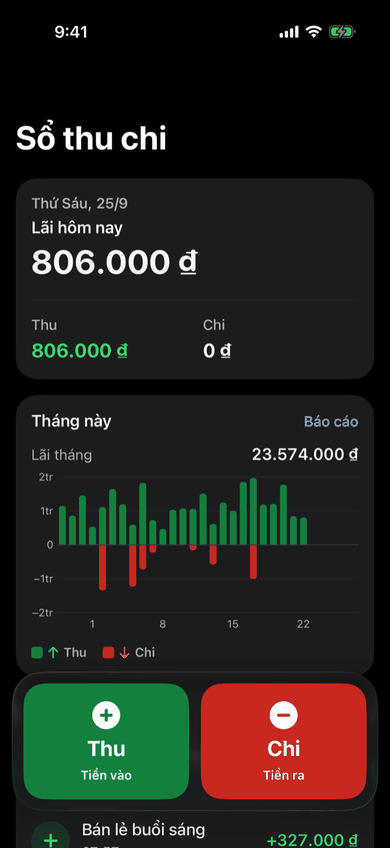
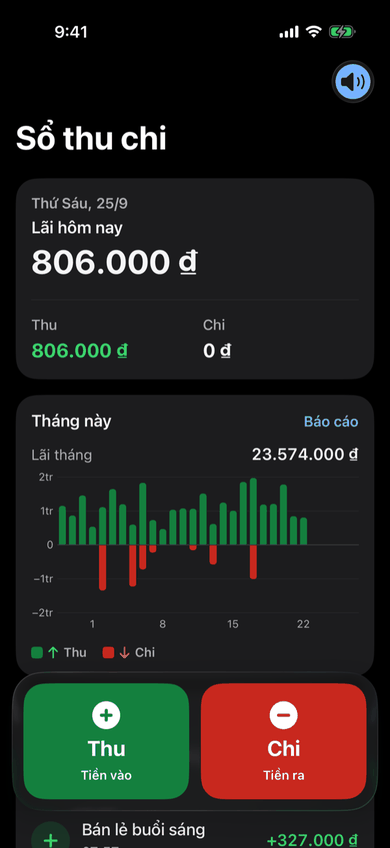
Ledger README: the home screenshots show the speaker button
Re-rendered on a71d4f5 by the "iOS previews" workflow and shrunk to
390 px with a 256-colour palette, like the other README shots: the
light, dark and large-text home screens now carry the readback toggle
in the toolbar. The light shot's alt text names it.

Claude-Session: https://claude.ai/code/session_017SqZFe7MJiZeRp26ra9wFc

Changed region(s): [[0.8308, 0.0613, 0.9538, 0.1226], [0.8615, 0.4906, 0.9231, 0.5212], [0.7692, 0.4906, 0.8308, 0.5212]]

diff --git a/ios/README.md b/ios/README.md
@@ -604,7 +604,7 @@ Chụp từ simulator iPhone 17 Pro (iOS 26.5, Xcode 26.6) bằng workflow **iOS
 
 | Trang chủ sổ | Nhập nhanh 10 giây | Báo cáo tháng/quý | Paywall |
 | --- | --- | --- | --- |
-| <img src="docs/screenshots/ledger-home.light.png" width="200" alt="Trang chủ sổ thu chi: lãi hôm nay, biểu đồ tháng, hai nút Thu và Chi"> | <img src="docs/screenshots/ledger-entry.light.png" width="200" alt="Sheet nhập nhanh: công tắc Thu/Chi, số tiền, ghi chú, bàn phím số"> | <img src="docs/screenshots/ledger-report.light.png" width="200" alt="Báo cáo: lãi tháng, tổng thu, tổng chi, biểu đồ theo ngày"> | <img src="docs/screenshots/paywall.light.png" width="200" alt="Paywall: lợi ích, gói năm tiết kiệm 36%, điều khoản, nút dùng thử"> |
+| <img src="docs/screenshots/ledger-home.light.png" width="200" alt="Trang chủ sổ thu chi: nút loa đọc lại số tiền ở góc trên, lãi hôm nay, biểu đồ tháng, hai nút Thu và Chi"> | <img src="docs/screenshots/ledger-entry.light.png" width="200" alt="Sheet nhập nhanh: công tắc Thu/Chi, số tiền, ghi chú, bàn phím số"> | <img src="docs/screenshots/ledger-report.light.png" width="200" alt="Báo cáo: lãi tháng, tổng thu, tổng chi, biểu đồ theo ngày"> | <img src="docs/screenshots/paywall.light.png" width="200" alt="Paywall: lợi ích, gói năm tiết kiệm 36%, điều khoản, nút dùng thử"> |
 
 | Chế độ tối | Chữ cực lớn (AX-L) | Giới thiệu | Cài đặt |
 | --- | --- | --- | --- |
